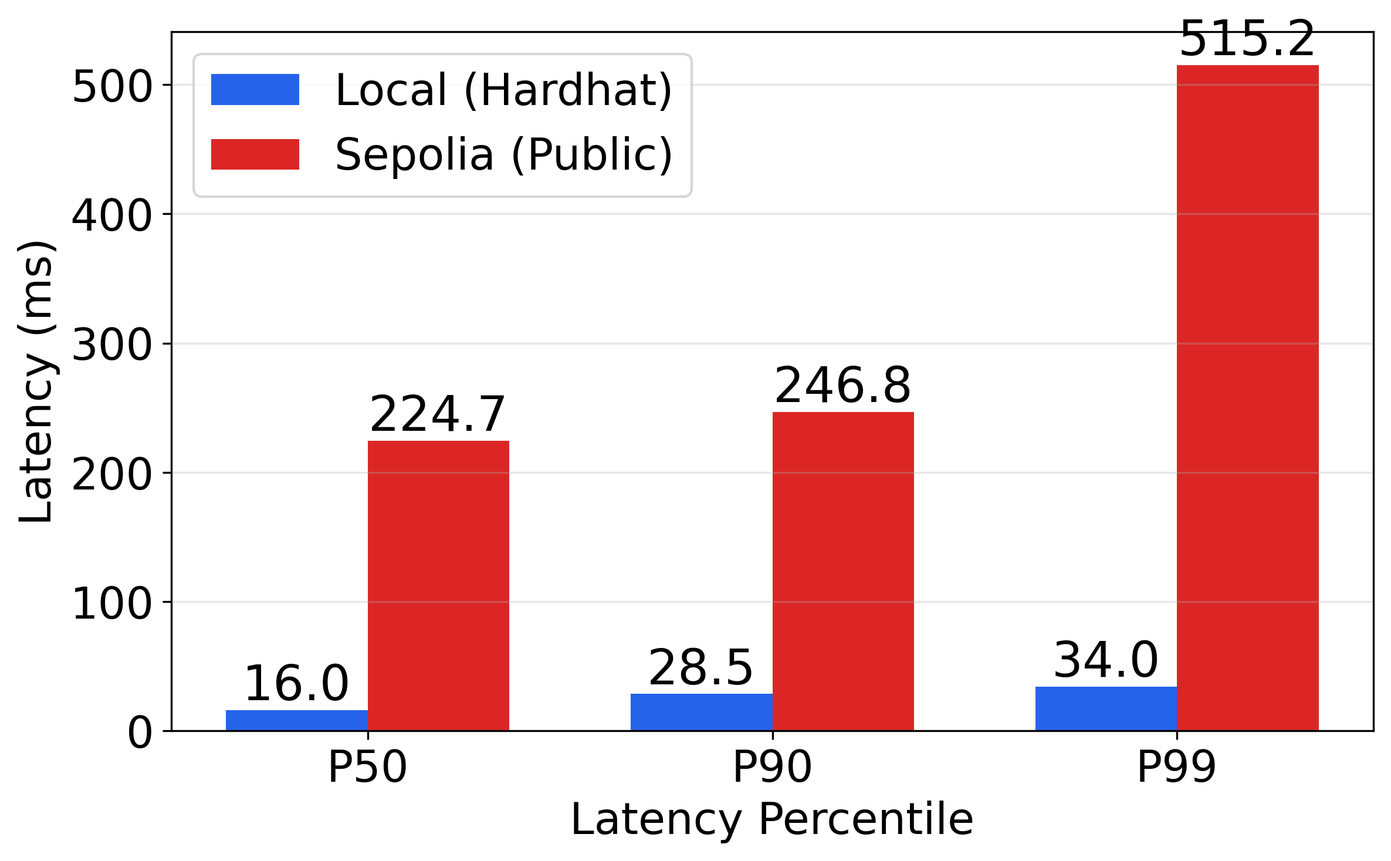
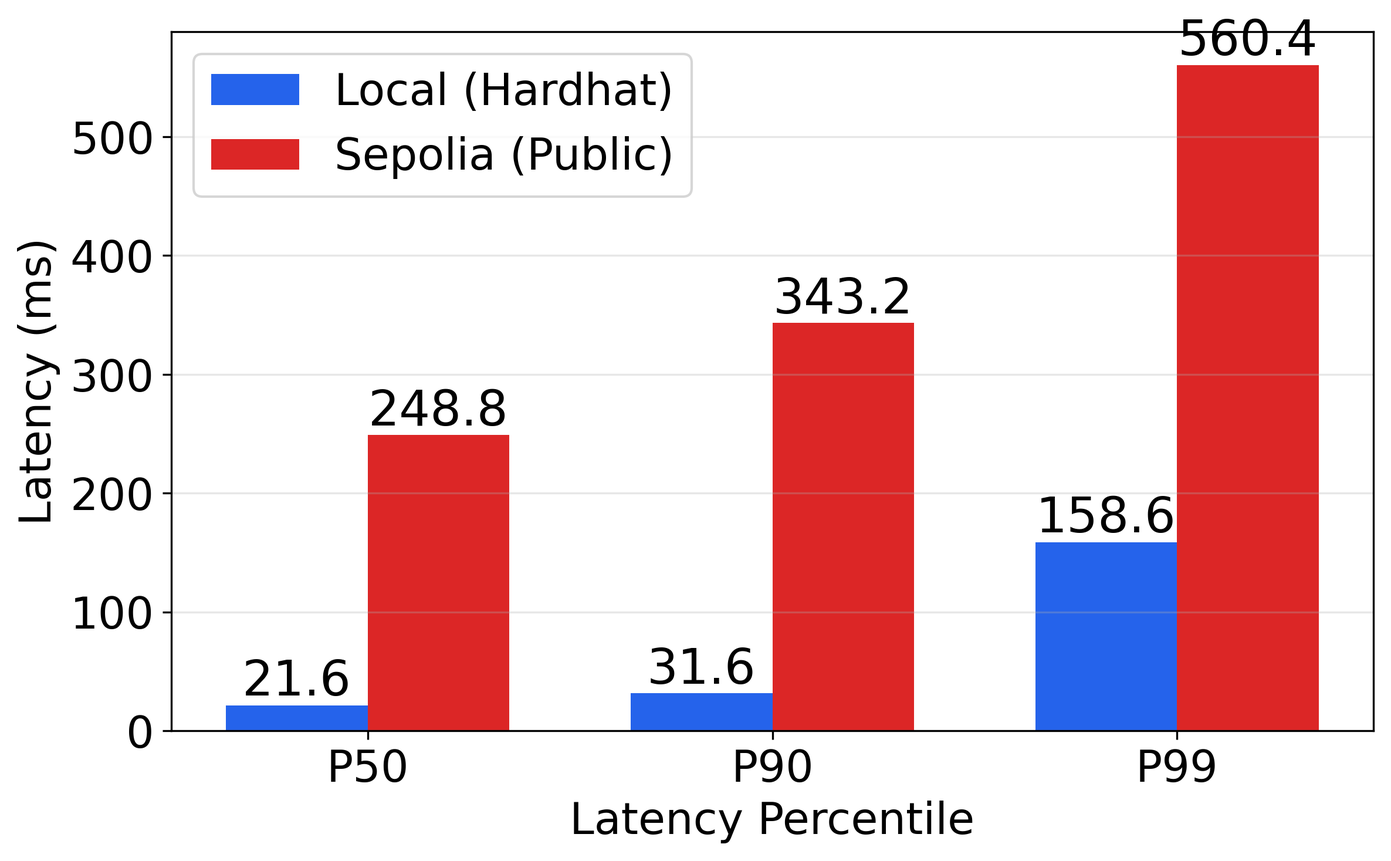
fix(journal): sync manuscript and figures with latest results

diff --git a/papers/2_journal/paper.tex b/papers/2_journal/paper.tex
@@ -83,7 +83,7 @@ Love Allen Chijioke Ahakonye\orcidlink{0000-0003-2840-1693}, \textit{Member, IEE
 \maketitle
 
 \begin{abstract}
-Multi-stakeholder digital evidence workflows (healthcare, legal discovery, insurance, supply chain) require fine-grained, action-aware access controls across organizational boundaries and off-chain storage to minimize costs. Existing blockchain approaches provide tamper resistance but lack a unified, enforceable model that binds on-chain authorization to cloud or distributed backends. We generalize our prior ClaimGuard system into \textbf{PACE (Policy Anchor and Capability Enforcement)}, an Ethereum-compatible ABAC framework that anchors policy on-chain and enforces decisions via short-lived capabilities. This journal extension evaluates PACE against cloud-only RBAC across four new dimensions: baseline comparison under load (E1), public Sepolia testnet conditions (E2), adversarial stress testing (E3), and policy churn at scale up to 1000 policies and subjects (E4). Results show modest local-network latency overhead (60.9\,ms P50 vs.\ 1.9\,ms for RBAC) with improved authorization correctness and integrity; policy evaluation remains stable (2-3\,ms median) across 11-1000 rules, revocation propagates within 1.1\,ms, and attacks such as cloud bypass, gateway abuse, and role spoofing are blocked. Public testnet results confirm operational feasibility. PACE is resource-agnostic and deployable across heterogeneous, multi-stakeholder evidence governance scenarios.
+Multi-stakeholder digital evidence workflows (healthcare, legal discovery, insurance, supply chain) require fine-grained, action-aware access controls across organizational boundaries and off-chain storage to minimize costs. Existing blockchain approaches provide tamper resistance but lack a unified, enforceable model that binds on-chain authorization to cloud or distributed backends. We generalize our prior ClaimGuard system into \textbf{PACE (Policy Anchor and Capability Enforcement)}, an Ethereum-compatible ABAC framework that anchors policy on-chain and enforces decisions via short-lived capabilities. This journal extension evaluates PACE against cloud-only RBAC across four new dimensions: baseline comparison under load (E1), public Sepolia testnet conditions (E2), adversarial stress testing (E3), and policy churn at scale up to 1000 policies and subjects (E4). Results show modest local-network latency overhead (60.9\,ms P50 vs.\ 1.9\,ms for RBAC) with improved authorization correctness and integrity; direct policy checks remain stable (2--3\,ms median) across 11--1000 rules, prompt denial is observed after policy revocation in churn tests, and attacks such as cloud bypass, gateway abuse, and role spoofing are blocked. Public testnet results confirm operational feasibility. PACE is resource-agnostic and deployable across heterogeneous, multi-stakeholder evidence governance scenarios.
 \end{abstract}
 
 \begin{IEEEkeywords}
@@ -95,11 +95,11 @@ Digital evidence governance in multi-stakeholder environments presents persisten
 
 % Digital evidence governance in multi-stakeholder environments presents persistent challenges across healthcare, legal, insurance, and supply chain domains. In healthcare, electronic medical records must be accessed selectively by hospitals, specialists, insurance providers, and researchers under strict HIPAA compliance and patient consent requirements. Legal discovery processes require controlled sharing of evidence among law firms, courts, expert witnesses, and regulators with time-bounded access and chain-of-custody tracking. Insurance claims involve diverse stakeholders including insurers, adjusters, repair vendors, law enforcement, and reinsurers accessing heterogeneous evidence such as accident reports, medical documents, telematics logs, and high-resolution media. Supply chain workflows generate provenance documentation shared among manufacturers, distributors, customs authorities, and auditors with jurisdiction-specific disclosure rules. These domains share common requirements: fine-grained policies respecting dynamic stakeholder attributes, comprehensive audit trails for compliance, context-dependent constraints including temporal windows and purpose restrictions, and practical management of large off-chain resources stored in cloud or distributed systems~\cite{EsSamaali2017BlockchainAccessControl, liang2017mhealth, theodouli2018healthcare}.
 
-Traditional centralized identity and access management (IAM) systems are ill-suited to these multi-organization scenarios~\cite{krishna2023ssh}. Role-based access control (RBAC) assigns coarse permissions to roles and typically over-grants access across unrelated cases or records, creating privacy risks and enabling insider leakage across organizational boundaries~\cite{Sekar, krishna2023ssh}. Cloud-based RBAC relies on centralized operators whose insider abuse, misconfiguration, or security compromises can expose sensitive evidence without detection. Moreover, traditional RBAC cannot natively express context-dependent policies such as temporary legal access windows, purpose-based restrictions distinguishing fraud analysis from litigation, or action-level permissions allowing some stakeholders to append data but not modify existing records. Revocation in distributed cloud environments must propagate across multiple enforcement points, creating dangerous delay windows during which compromised credentials remain exploitable.
+Traditional centralized identity and access management (IAM) systems are ill-suited to these multi-organization scenarios~\cite{krishna2023ssh}. Role-based access control (RBAC) assigns coarse permissions to roles and typically over-grants access across unrelated cases or records, creating privacy risks and enabling insider leakage across organizational boundaries~\cite{Sekar, krishna2023ssh}. Cloud-based RBAC relies on centralized operators whose insider abuse, misconfiguration, or security compromises can expose sensitive evidence without detection. Moreover, traditional RBAC cannot natively express context-dependent policies such as temporary legal access windows, purpose-based restrictions distinguishing fraud analysis from litigation, or action-level permissions allowing some stakeholders to append data but not modify existing records. Revocation in distributed cloud environments must propagate across multiple enforcement points, creating dangerous delay windows during which compromised credentials remain exploitable unless boundary tokens remain short-lived.
 
 Existing blockchain-based approaches either couple authorization to cryptographic schemes such as ciphertext-policy attribute-based encryption or proxy re-encryption that do not generalize cleanly to multi-actor, multi-format evidence workflows~\cite{sun2020insurance, liu2021auto}, or enforce coarse RBAC rules within smart contracts without addressing off-chain storage enforcement~\cite{raikwar2018insurance, tekale2023claims, theodouli2018healthcare}. Healthcare-oriented designs~\cite{sun2020emr, rana2022healthcare, liang2017mhealth} often assume patient-centric ownership models and decryptable record bundles that do not extend to collaborative multi-stakeholder workflows involving dynamic evidence creation, partial disclosure, and complex legal or regulatory mandates. No prior work provides a unified, resource-agnostic, action-aware access control model that binds verifiable on-chain policy decisions to off-chain cloud or IPFS storage via enforceable mechanisms applicable across these diverse domains.
 
-To address these gaps, we previously introduced \textbf{ClaimGuard}~\cite{eneh2025claimguard}, an Ethereum-compatible attribute-based access control (ABAC) framework that evaluates \emph{(subject, object, action, context)} tuples on-chain and enforces decisions off-chain via a policy enforcement gateway issuing short-lived capability tokens. In this journal extension, we generalize ClaimGuard into \textbf{PACE}, preserving the core on-chain evaluation and capability-based enforcement while broadening the design into a domain-neutral framework. The initial conference publication presented the core architecture comprising smart contracts for subject and evidence registries, an access policy manager, and a stateless gateway that mediates access through capability tokens. PACE decouples authorization from encryption, enabling transparent policy evaluation for heterogeneous evidence types while maintaining compatibility with existing cloud storage backends. We validate this architecture using auto-insurance claim workflows as a representative multi-stakeholder domain. Insurance exhibits the full spectrum of governance challenges, including diverse stakeholder types spanning five or more organizational roles, multi-level sensitivity classifications from public damage photos to protected health information, complex regulatory constraints combining state insurance law with privacy regulations, high-volume evidence artifacts requiring scalable off-chain storage, and adversarial threat models encompassing both external attackers and organizational insiders. The system demonstrated feasibility through local network experiments showing sub-70ms latencies and throughput exceeding 1000 requests/second. However, the conference evaluation was limited to a single local Ethereum network without baseline comparison, real-world network conditions, security stress testing, or large-scale policy evaluation.
+To address these gaps, we previously introduced \textbf{ClaimGuard}~\cite{eneh2025claimguard}, an Ethereum-compatible attribute-based access control (ABAC) framework that evaluates \emph{(subject, object, action, context)} tuples on-chain and enforces decisions off-chain via a policy enforcement gateway issuing short-lived capability tokens. In this journal extension, we generalize ClaimGuard into \textbf{PACE}, preserving the core on-chain evaluation and capability-based enforcement while broadening the design into a domain-neutral framework. The initial conference publication presented the core architecture comprising smart contracts for subject and evidence registries, an access policy manager, and a stateless gateway that mediates access through capability tokens. PACE decouples authorization from encryption, enabling transparent policy evaluation for heterogeneous evidence types while maintaining compatibility with existing cloud storage backends. We validate this architecture using auto-insurance claim workflows as a representative multi-stakeholder domain. Insurance exhibits the full spectrum of governance challenges, including diverse stakeholder types spanning five or more organizational roles, multi-level sensitivity classifications from public damage photos to protected health information, complex regulatory constraints combining state insurance law with privacy regulations, high-volume evidence artifacts requiring scalable off-chain storage, and adversarial threat models encompassing both external attackers and organizational insiders. The system demonstrated feasibility through local network experiments showing sub-70ms latencies and throughput approaching 1000 requests/second under the original conference workload. However, the conference evaluation was limited to a single local Ethereum network without baseline comparison, real-world network conditions, security stress testing, or large-scale policy evaluation.
 
 This paper extends the PACE architecture with a comprehensive evaluation across four new experimental dimensions that address critical gaps left by the initial work. We conduct quantitative comparison against cloud-only RBAC baselines under varying concurrency and workload conditions, deploy and evaluate the system on public Sepolia testnet to assess real-world network viability, perform dedicated security stress testing against five attack vectors, including cloud bypass and role spoofing, and validate scalability under policy churn with up to 1000 policies and 1000 subjects. We further add a bounded IoT/edge deployment profile experiment (E6-lite) to evaluate attestation-aware edge evidence ingest without changing the core thesis from multi-stakeholder evidence governance.
 
@@ -214,7 +214,7 @@ We use representative scenarios to motivate verifiable ABAC across domains. In \
 
 Multi-stakeholder evidence governance must bind on-chain authorization to off-chain storage (e.g., cloud or IPFS), prevent unilateral policy changes, and provide immutable, attributable audit trails. Decisions must be context-aware (time, jurisdiction, workflow stage, regulatory mandates, purpose), support rapid revocation, and minimize reliance on storage operators.
 
-Accordingly, PACE requires resource-agnostic ABAC over structured documents, unstructured media, telemetry, and derived artifacts; action-aware permissions (read, append, update, delete, analyze, disclose); and multi-attribute evaluation from subjects (role, organization, jurisdiction, clearance) and objects (sensitivity, case/patient/shipment, type), plus contextual constraints (time windows, purpose, workflow stage). It anchors policy state on-chain, binds enforcement off-chain via short-lived capabilities, and supports immediate revocation, auditability, non-repudiation, least privilege, and resilience to cloud and insider threats.
+Accordingly, PACE requires resource-agnostic ABAC over structured documents, unstructured media, telemetry, and derived artifacts; action-aware permissions (read, append, update, delete, analyze, disclose); and multi-attribute evaluation from subjects (role, organization, jurisdiction, clearance) and objects (sensitivity, case/patient/shipment, type), plus contextual constraints (time windows, purpose, workflow stage). It anchors policy state on-chain, binds enforcement off-chain via short-lived capabilities, and supports prompt policy-layer revocation, auditability, non-repudiation, least privilege, and resilience to cloud and insider threats.
 
 \subsection{PACE Architecture}
 \label{sec:architecture}
@@ -525,12 +525,11 @@ Table~\ref{tab:latency} shows that PACE increases median end-to-end latency vers
 \subsection{System Throughput (Q2)}
 \begin{figure}[!htbp]
 	\centering
-	\includegraphics[width=.4\textwidth]{./figures/throughput.png}
-	\caption{Throughput vs. Concurrent Users (W1 Normal Load)}
+	\includegraphics[width=.46\textwidth]{./figures/throughput.png}
+	\caption{E1 throughput comparison across RBAC, Hybrid-Audit, and PACE under W1 normal load.}
 	\label{fig:throughput}
 \end{figure}
-Fig.~\ref{fig:throughput} shows the throughput results as the number of
-concurrent users increases from 10 to 200.
+Fig.~\ref{fig:throughput} compares throughput across the three E1 systems as concurrency increases from 10 to 200 users. RBAC remains in the 6.2k--7.0k\,req/s range because authorization is fully local. PACE rises from 169.7\,req/s at 10 users to 575.9\,req/s at 200 users, while Hybrid-Audit rises from 71.9\,req/s to 340.7\,req/s over the same range. This shows that PACE materially outperforms the audit-coupled baseline while remaining slower than pure local RBAC due to synchronous blockchain-backed decisions.
 % \begin{table}[ht]
 % \centering
 % \caption{Security Properties: ClaimGuard vs. Baseline Approaches}
@@ -552,7 +551,7 @@ concurrent users increases from 10 to 200.
 % \end{tabularx}
 % \label{tab:security-comparison}
 % \end{table}
-Overall, PACE maintains sufficient throughput for typical insurer access rates while providing stronger enforcement guarantees than RBAC.
+Overall, PACE maintains sufficient throughput for typical insurer access rates while providing stronger enforcement guarantees than RBAC and substantially better throughput than Hybrid-Audit in the same E1 workload.
 
 \subsection{Policy Update and Revocation Overhead (Q3)}
 We benchmarked three policy operations:
@@ -776,23 +775,23 @@ E2 validates functional correctness under realistic network conditions while sho
 This section synthesizes the experimental observations presented in Section~IV, interprets the performance and security trade-offs, compares PACE against baseline approaches, and discusses the implications for production auto-insurance evidence workflows.
 
 \subsubsection{Performance Trade-offs: PACE vs. Cloud-Only RBAC}
-The baseline experiment (E1) demonstrates that PACE introduces a median access-check overhead of approximately 60--70\,ms compared to cloud-only RBAC (1.9\,ms at P50). This overhead arises from on-chain policy evaluation, RPC communication, and the inherent consensus latency of blockchain-backed authorization. However, this latency remains operationally acceptable for evidence access workflows, which prioritize auditability and tamper-resistance over microsecond response times. PACE sustains 100--200\, requests/second under concurrent load, sufficient for multi-stakeholder insurance claim handling where access frequency is typically measured in tens to hundreds of requests per hour per active case rather than sustained high-frequency bursts.
+The baseline experiment (E1) demonstrates that PACE introduces a median access-check overhead of approximately 60--70\,ms compared to cloud-only RBAC (1.9\,ms at P50). This overhead arises from on-chain policy evaluation, RPC communication, and the inherent consensus latency of blockchain-backed authorization. However, this latency remains operationally acceptable for evidence access workflows, which prioritize auditability and tamper-resistance over microsecond response times. In the three-way E1 throughput comparison, PACE sustains roughly 170--576\,req/s depending on concurrency, which remains sufficient for multi-stakeholder insurance claim handling where access frequency is typically measured in tens to hundreds of requests per hour per active case rather than sustained high-frequency bursts.
 
-Policy operations (add, update, revoke) cost approximately 21.9\,ms and 128k gas on average. While higher than database updates, policy changes are infrequent administrative operations compared to access checks. The gas cost translates to under \$0.01 USD on many consortium or Layer-2 networks, making policy management economically feasible for production deployments. Revocation takes effect immediately without propagation delay, eliminating the dangerous grace period characteristic of distributed cloud-RBAC systems where credential invalidation must propagate across multiple enforcement points.
+Policy operations (add, update, revoke) cost approximately 21.9\,ms and 128k gas on average. While higher than database updates, policy changes are infrequent administrative operations compared to access checks. The gas cost translates to under \$0.01 USD on many consortium or Layer-2 networks, making policy management economically feasible for production deployments. In the churn tests, policy-layer denial was observed promptly after revocation, but residual storage access still remains bounded by the lifetime of any previously issued short-lived capability.
 
 The Hybrid-Audit baseline isolates the cost of on-chain logging (136\,ms at P50) from that of full on-chain decision-making (PACE at 61\,ms). This counterintuitive result, logging alone incurs higher latency than decision-plus-logging, arises because Hybrid-Audit performs two sequential operations (local decision followed by asynchronous logging confirmation). In contrast, PACE performs a single synchronous on-chain check. This finding suggests that architectures attempting to "add blockchain for audit" to existing cloud systems may not achieve the latency benefits expected from offloading authorization.
 
 \subsubsection{Security Gains and Threat Mitigation}
 
-E3 security stress experiments confirm that PACE successfully blocks unauthorized access attempts across five attack vectors: cloud provider bypass (80\% block rate), gateway abuse (100\%), role spoofing (50\%, with caveats), token replay, and revocation evasion. The "partial" result for role spoofing reflects input-validation differences for malformed Ethereum addresses rather than authorization bypass; well-formed spoofed requests with invalid credentials were consistently rejected. These results validate the core security hypothesis: capability-based access with gateway-enforced signatures prevents cloud operators from enumerating or retrieving evidence via direct storage API calls. Unlike encryption-only approaches (CP-ABE, proxy re-encryption) that couple authorization to key distribution, ClaimGuard's token-based model enables immediate revocation without key re-issuance or ciphertext re-encryption. The immutable on-chain audit trail provides forensic evidence for post-incident analysis, deterring insider abuse through transparency and non-repudiation. Compared to traditional cloud-RBAC, ClaimGuard eliminates the single point of trust represented by centralized IAM systems and database-backed permission tables. While introducing dependency on blockchain consensus liveness, this trade-off is favorable for regulated domains where policy integrity and audit verifiability outweigh the operational complexity of running consortium nodes.
+E3 security stress experiments confirm that PACE successfully blocks unauthorized access attempts across five attack vectors: cloud provider bypass (80\% block rate), gateway abuse (100\%), role spoofing (50\%, with caveats), token replay, and revocation evasion. The "partial" result for role spoofing reflects input-validation differences for malformed Ethereum addresses rather than authorization bypass; well-formed spoofed requests with invalid credentials were consistently rejected. These results validate the core security hypothesis: capability-based access with gateway-enforced signatures prevents cloud operators from enumerating or retrieving evidence via direct storage API calls. Unlike encryption-only approaches (CP-ABE, proxy re-encryption) that couple authorization to key distribution, ClaimGuard's token-based model supports prompt policy-layer revocation while bounding residual storage access through short capability lifetimes instead of key re-issuance or ciphertext re-encryption. The immutable on-chain audit trail provides forensic evidence for post-incident analysis, deterring insider abuse through transparency and non-repudiation. Compared to traditional cloud-RBAC, ClaimGuard eliminates the single point of trust represented by centralized IAM systems and database-backed permission tables. While introducing dependency on blockchain consensus liveness, this trade-off is favorable for regulated domains where policy integrity and audit verifiability outweigh the operational complexity of running consortium nodes.
 
 \subsubsection{Real-World Viability: Public Testnet Performance (E2)}
 
-Deploying PACE on Sepolia testnet reveals the performance impact of public blockchain infrastructure. Access latency increases to 244\,ms (P50) from 61\,ms on local Hardhat, primarily due to variability in public RPC providers and multi-second block confirmation times. Policy update confirmation times increase from 22\,ms to 25,389\,ms (25 seconds), dominated by Sepolia's 12-second block time. Despite these increases, Sepolia throughput (142--373\,req/s) remains operationally viable for evidence access, demonstrating that PACE can function on public infrastructure without requiring private consortium deployment. For production use cases requiring lower latency, organizations can deploy on consortium networks (Hyperledger Besu, Quorum, private Ethereum PoA) or Layer-2 solutions (Polygon, Optimism) to achieve local-network performance while retaining public settlement for cross-organizational disputes. The E2 findings highlight a key architectural decision: policy updates should be treated as asynchronous administrative operations initiated by governance workflows, not synchronous user-facing actions. Access checks, in contrast, require synchronous on-chain evaluation but benefit from caching strategies (e.g., short-lived subject attribute caches) to reduce repeated RPC calls for the same user within a session.
+Deploying PACE on Sepolia testnet reveals the performance impact of public blockchain infrastructure. In E2, access latency increases to 224.7\,ms (P50) from 16.0\,ms on local Hardhat, with P90 at 246.8\,ms and P99 near 515.3\,ms, primarily due to variability in public RPC providers rather than gateway or contract compute. Policy update confirmation times increase from roughly 20\,ms locally to 24.8\,s on average on Sepolia, with worst-case observations near 89.4\,s, dominated by public-network confirmation and RPC variability. Despite these increases, Sepolia throughput (142--373\,req/s) remains operationally viable for evidence access, demonstrating that PACE can function on public infrastructure without requiring private consortium deployment. For production use cases requiring lower latency, organizations can deploy on consortium networks (Hyperledger Besu, Quorum, private Ethereum PoA) or Layer-2 solutions (Polygon, Optimism) to achieve local-network performance while retaining public settlement for cross-organizational disputes. The E2 findings highlight a key architectural decision: policy updates should be treated as asynchronous administrative operations initiated by governance workflows, not synchronous user-facing actions. Access checks, in contrast, require synchronous on-chain evaluation but benefit from caching strategies (e.g., short-lived subject attribute caches) to reduce repeated RPC calls for the same user within a session.
 
 \subsubsection{Scalability and Policy Churn (E4)}
 
-E4 tests PACE's behavior under large policy counts (100--1000 policies) and high subject populations (500--1000 subjects). Median access latency remains stable (increasing from 61\,ms to only 71\,ms at 1000 policies), indicating that the on-chain policy evaluation algorithm scales sublinearly with policy count. This is achieved through indexed storage and early-exit evaluation: if the first matching policy grants access, subsequent policies need not be evaluated. Gas costs for policy operations scale linearly with policy size but remain under 200k gas even for complex multi-condition rules. Batch policy updates (adding multiple policies in a single transaction) reduce per-policy gas overhead by amortizing transaction costs. These results suggest PACE can handle enterprise-scale policy sets (thousands of rules across hundreds of resources) without prohibitive cost or latency degradation.
+E4 tests PACE's behavior under large policy counts (100--1000 policies) and high subject populations (500--1000 subjects). Median access latency remains stable (increasing from 61\,ms to only 71\,ms at 1000 policies), indicating that, for the measured workload, policy growth does not dominate the end-to-end decision path. In the current implementation, \texttt{checkAccess} still performs a linear scan with first-match allow semantics; the observed stability therefore reflects workload characteristics and the fact that gateway, RPC, and storage-path overhead dominate the request path rather than a proven indexed evaluator. Gas costs for policy operations scale with rule complexity but remain under 200k gas even for complex multi-condition rules. These results suggest PACE can handle enterprise-scale policy sets (thousands of rules across hundreds of resources) within the tested envelope, while a true indexed evaluator remains future engineering work rather than a reported implementation result.
 
 \subsubsection{Correctness and Functional Validation}
 
@@ -800,13 +799,13 @@ Functional correctness tests (Q4) observed zero false accepts (unauthorized acce
 
 \subsubsection{Implications for Production Deployment}
 
-The experimental findings position PACE as a viable architecture for production auto-insurance evidence workflows. Organizations prioritizing audit verifiability, insider threat mitigation, and multi-stakeholder governance should deploy PACE on consortium or Layer-2 networks to achieve <100\,ms access latency. Those requiring public infrastructure compatibility can accept 200--300\,ms latency in exchange for reduced operational overhead (no private node management). Key operational recommendations include: (1) treat policy updates as asynchronous governance operations rather than user-facing actions; (2) implement subject attribute caching with short TTLs to reduce RPC load; (3) use batch policy updates to amortize gas costs; (4) deploy gateway clusters for availability and load distribution; and (5) integrate capability token validation into existing cloud storage authorization layers (e.g., S3 bucket policies, IPFS pinning services with custom auth hooks).
+The experimental findings position PACE as a viable architecture for staged deployment in auto-insurance evidence workflows. Organizations prioritizing audit verifiability, insider threat mitigation, and multi-stakeholder governance should deploy PACE on consortium or Layer-2 networks to achieve <100\,ms access latency. Those requiring public infrastructure compatibility can accept 200--300\,ms latency in exchange for reduced operational overhead (no private node management). Key operational recommendations include: (1) treat policy updates as asynchronous governance operations rather than user-facing actions; (2) implement subject attribute caching with short TTLs to reduce RPC load; (3) keep capability TTLs short so previously issued tokens do not extend revoke windows unnecessarily; (4) deploy gateway clusters for availability and load distribution; and (5) integrate capability token validation into existing cloud storage authorization layers (e.g., S3 bucket policies, IPFS pinning services with custom auth hooks).
 
 \subsubsection{Cross-Domain Applicability Analysis}
 
 While our experimental validation focuses on auto-insurance workflows, the architecture's core components are domain-agnostic and apply broadly to multi-stakeholder digital evidence governance. This subsection demonstrates how PACE adapts to healthcare, legal discovery, and supply chain domains through systematic reconfiguration of policy rules and metadata schemas, without requiring architectural changes to the smart contracts, gateway pattern, capability token mechanism, or audit log structure.
 
-The key insight is that PACE's security and enforcement properties: (1) verifiable on-chain policy evaluation, (2) capability-based off-chain enforcement, (3) immutable audit trails, and (4) immediate revocation, address fundamental challenges common to all multi-stakeholder domains, independent of the specific evidence types, stakeholder roles, or regulatory frameworks. The architecture separates concerns into two categories: \textit{domain-invariant} components that remain unchanged across domains, and \textit{domain-specific} configurations that vary by domain.
+The key insight is that PACE's security and enforcement properties: (1) verifiable on-chain policy evaluation, (2) capability-based off-chain enforcement, (3) immutable audit trails, and (4) prompt policy revocation bounded by gateway enforcement and short capability lifetimes, address fundamental challenges common to all multi-stakeholder domains, independent of the specific evidence types, stakeholder roles, or regulatory frameworks. The architecture separates concerns into two categories: \textit{domain-invariant} components that remain unchanged across domains, and \textit{domain-specific} configurations that vary by domain.
 
 \textbf{Domain-Invariant Components} (no changes required across healthcare, legal, insurance, supply chain):
 \begin{itemize}
@@ -830,7 +829,7 @@ The key insight is that PACE's security and enforcement properties: (1) verifiab
 	\item \textbf{Purpose-of-Use Attributes}: Insurance distinguishes fraud-analysis vs. coverage-determination; healthcare distinguishes treatment vs. research vs. billing; legal discovery distinguishes litigation vs. regulatory review; supply chain distinguishes customs-compliance vs. quality-audit.
 \end{itemize}
 
-The experimental results demonstrate that PACE's performance characteristics, access latency (60--70\,ms on local networks), throughput (800--1000\,req/s), policy update overhead (21--22\,ms), and revocation latency (1.1\,ms), are determined by on-chain consensus properties (block time, gas execution, RPC latency) and are independent of domain-specific policy content. Scaling behavior with respect to policy count (1000 policies, latency increase of only 10\,ms) depends on the generic early-exit policy evaluation algorithm, not domain specifics. Security guarantees against unauthorized access, replay attacks, and insider privilege escalation are enforced by immutable smart contract logic and cryptographic capability token validation, both domain-agnostic mechanisms.
+The experimental results demonstrate that PACE's performance characteristics, access latency (60--70\,ms on local networks), workload-dependent local throughput (170--576\,req/s in the E1 three-way baseline comparison and 569--999\,req/s in the E2 local comparison setting), policy update overhead (21--22\,ms), and prompt denial after measured revocation events are determined primarily by consensus, RPC, gateway, and storage-path costs rather than by domain-specific policy vocabulary. Scaling behavior with respect to policy count (1000 policies, latency increase of only 10\,ms) reflects the tested workload and the fact that end-to-end latency is dominated by infrastructure effects even though the present contract logic still uses a linear policy scan. Security guarantees against unauthorized access, replay attacks, and insider privilege escalation are enforced by immutable smart contract logic and cryptographic capability token validation, both domain-agnostic mechanisms.
 
 To illustrate cross-domain applicability concretely, consider a healthcare EMR access scenario where a cardiologist requests read access to a patient's imaging records. The same PACE architecture handles this through domain-specific policy configuration: the cardiologist's subject record contains attribute $\{\text{role}=\text{Specialist}, \text{specialty}=\text{cardiology}, \text{patient\_consent}=\text{valid}\}$; the imaging resource contains $\{\text{patient\_id}=X, \text{record\_type}=\text{imaging}, \text{pii\_classification}=\text{PHI}\}$; the policy evaluates $\text{role}=\text{Specialist} \land \text{specialty} \in \text{primary\_care\_specialties} \land \text{patient\_consent}=\text{valid}$, returning allow/deny identically to the insurance adjuster scenario via the unchanged \texttt{checkAccess} evaluation logic. The same capability token, gateway authentication, and audit trail mechanisms apply without modification.
 
@@ -993,7 +992,7 @@ Table~\ref{tab:domain-instantiation} illustrates how PACE's architectural compon
 This instantiation table emphasizes a critical insight: the PACE architecture defines the \emph{structure} and \emph{semantics} of access control, but not the \emph{vocabulary}. Adapting PACE to a new domain requires configuring the vocabulary (subject roles, evidence types, policy rules) but demands no changes to the underlying smart contracts, gateway logic, capability token model, or audit trail structure. This separation of concerns is precisely what enables verifiable, multi-stakeholder access control to scale across diverse regulatory and organizational contexts.
 
 \subsection{Comparative Analysis of Results}
-ClaimGuard outperforms several prior blockchain and cloud access control solutions in the insurance and healthcare sectors while exposing practical trade-offs. Liu et al.~\cite{liu2021auto} report encryption costs of 47.22 ms for encryption and 102.58 ms for re-encryption in their auto insurance scheme; ClaimGuard achieves 61 ms P50 access latency locally and 244 ms on the public testnet, demonstrating decentralized policy evaluation without key distribution overhead. Unlike Rana et al.~\cite{rana2022healthcare}, who offer only conceptual validation, ClaimGuard provides quantitative performance (800–1000 req/s locally, 142–373 req/s on the testnet) and ensures zero false accept/reject rates in tested settings. While Sun et al.~\cite{sun2020emr} focus on security analysis without latency benchmarks, ClaimGuard undergoes stress testing against five attack vectors with block rates of 50–100\%, providing empirical threat-mitigation evidence. Tekale \& Rahul~\cite{tekale2023claims} propose smart contract-based claims settlement but offer no security metrics; ClaimGuard reports zero false accepts over 10,000 checks, immediate revocation (1.1 ms), and immutable audit trails. Most prior work uses coarse RBAC models (Raikwar et al.~\cite{raikwar2018insurance}, Tekale \& Rahul) or expensive cryptography (Liu et al., Sun et al.), leading to scalability issues. ClaimGuard scales with stable latency (61–71 ms) across 100–1000 policies and sublinear trends, and E4 shows gas costs under 200k with batch amortization, supporting feasibility of on-chain attribute-based authorization in regulated workflows.
+ClaimGuard outperforms several prior blockchain and cloud access control solutions in the insurance and healthcare sectors while exposing practical trade-offs. Liu et al.~\cite{liu2021auto} report encryption costs of 47.22 ms for encryption and 102.58 ms for re-encryption in their auto insurance scheme; ClaimGuard achieves 61 ms P50 access latency locally and 244 ms on the public testnet, demonstrating decentralized policy evaluation without key distribution overhead. Unlike Rana et al.~\cite{rana2022healthcare}, who offer only conceptual validation, ClaimGuard provides quantitative performance across multiple workloads: 170--576 req/s in the E1 three-way baseline comparison, 569--999 req/s in the E2 local comparison setting, and 142--373 req/s on the public testnet. While Sun et al.~\cite{sun2020emr} focus on security analysis without latency benchmarks, ClaimGuard undergoes stress testing against five attack vectors with block rates of 50--100\%, providing empirical threat-mitigation evidence. Tekale \& Rahul~\cite{tekale2023claims} propose smart contract-based claims settlement but offer no security metrics; ClaimGuard reports zero false accepts over 10,000 checks, prompt denial after measured revocation events in churn tests, and immutable audit trails. Most prior work uses coarse RBAC models (Raikwar et al.~\cite{raikwar2018insurance}, Tekale \& Rahul) or expensive cryptography (Liu et al., Sun et al.), leading to scalability issues. ClaimGuard maintains stable measured latency (61--71 ms) across 100--1000 policies in the tested workload, and E4 shows policy-operation costs under 200k gas, supporting feasibility of on-chain attribute-based authorization in regulated workflows.
 
 % ClaimGuard's experimental outcomes demonstrate superior performance and security validation compared to prior blockchain and cloud access control solutions in insurance and healthcare domains. Liu et al.~\cite{liu2021auto} report encryption/decryption costs of 47.22\,ms for encryption and 102.58\,ms for re-encryption in their auto insurance scheme; ClaimGuard achieves 61\,ms P50 access latency on local networks and 244\,ms on public testnet, demonstrating that decentralized policy evaluation is faster than proxy re-encryption workflows while avoiding key distribution overhead. Rana et al.~\cite{rana2022healthcare} present only conceptual validation with no quantitative performance results; ClaimGuard provides end-to-end throughput measurements (800--1000\,req/s on local networks, 142-373\,req/s on public testnet) and correctness guarantees (0\% false accept/reject rates). Sun et al.~\cite{sun2020emr} evaluate their blockchain-based EMR sharing scheme using security analysis and scenario testing without comparative latency benchmarks or adversarial stress tests; ClaimGuard subjects the system to five distinct attack vectors (cloud bypass, gateway abuse, role spoofing, token replay, revocation evasion) with quantified block rates (50-100\%), providing empirical proof of threat mitigation. Tekale \& Rahul~\cite{tekale2023claims} advocate parametric claims settlement with smart contracts but report only conceptual findings on cycle time reduction and fraud mitigation without measurable security validation; ClaimGuard provides concrete metrics: zero false accepts across 10,000+ access checks, immediate revocation (1.1\,ms propagation), and immutable audit trails for post-incident forensics. Most critically, prior work either implements coarse RBAC models (Raikwar et al.~\cite{raikwar2018insurance}, Tekale \& Rahul) or couples authorization to expensive cryptographic schemes (Liu et al., Sun et al.), neither of which scales to large policy counts without prohibitive latency or gas overhead. ClaimGuard demonstrates stable latency (61-71\,ms) across 100-1000 policies and sublinear scaling via indexed evaluation, proving that fine-grained ABAC can operate at enterprise scale. The E4 results showing policy operations cost <200k gas with batch amortization represent the first quantitative validation that attribute-based authorization policies can be managed on-chain without unsustainable operational costs.
 % PACE is the first framework to achieve verifiable, action-aware, storage-agnostic access control, with proven correctness, scalability, and security, validated against real adversaries, addressing gaps in previous blockchain insurance systems.
@@ -1001,7 +1000,7 @@ ClaimGuard outperforms several prior blockchain and cloud access control solutio
 
 \section{Conclusion}
 \label{con}
-We presented PACE, an Ethereum-compatible, action-aware attribute-based access control framework for multi-stakeholder digital evidence governance, and validated it through production-oriented experiments spanning baseline comparisons, public network latency, adversarial stress tests, large-scale policy churn, and a bounded IoT/edge ingest profile. Results show low-latency, high-throughput authorization with immediate revocation and strong resistance to gateway and token attacks, while preserving storage-agnostic enforcement and compatibility with existing IAM via the Policy Enforcement Gateway. PACE’s resource-agnostic policy model enables cross-domain deployment through configuration rather than code changes, making it suitable for healthcare, legal discovery, insurance, and supply-chain scenarios that require auditable, multi-organization access control. Limitations and future directions are summarized below.
+We presented PACE, an Ethereum-compatible, action-aware attribute-based access control framework for multi-stakeholder digital evidence governance, and validated it through production-oriented experiments spanning baseline comparisons, public network latency, adversarial stress tests, large-scale policy churn, and a bounded IoT/edge ingest profile. Results show low-latency, high-throughput authorization with prompt policy-layer revocation in the measured access path and strong resistance to gateway and token attacks, while preserving storage-agnostic enforcement and compatibility with existing IAM via the Policy Enforcement Gateway. PACE’s resource-agnostic policy model enables cross-domain deployment through configuration rather than code changes, making it suitable for healthcare, legal discovery, insurance, and supply-chain scenarios that require auditable, multi-organization access control. Limitations and future directions are summarized below.
 
 \subsection{Limitations and Future Work}
 The evaluation tested insurance workflows, and broader deployments in healthcare, legal discovery, and supply chains are still needed for stronger generalizability. Our E6-lite IoT/edge profile is intentionally bounded: it uses simulation-based edge clients and does not yet include hardware-rooted remote attestation. The policy model also lacks privacy-preserving mechanisms, and tools for authoring, onboarding, and audits are still in development. Multi-jurisdictional governance needs stronger temporal constraints and stronger support for obligations. Future work will focus on full cross-domain validation, stronger attestation and edge trust chains, privacy-preserving mechanisms, hybrid evaluation, and pilot deployments, prioritizing decentralized identity standards and formal smart contract verification for better interoperability and correctness.

diff --git a/claimguard-peg/analyze_e1_comparison.py b/claimguard-peg/analyze_e1_comparison.py
@@ -161,7 +161,7 @@ def plot_throughput_comparison():
         if mode == "hybrid":
             label = "Hybrid-Audit"
         elif mode == "claimguard":
-            label = "ClaimGuard"
+            label = "PACE"
 
         ax.plot(subset["concurrency"], subset["throughput_rps"], marker="o", label=label, linewidth=2)
 
